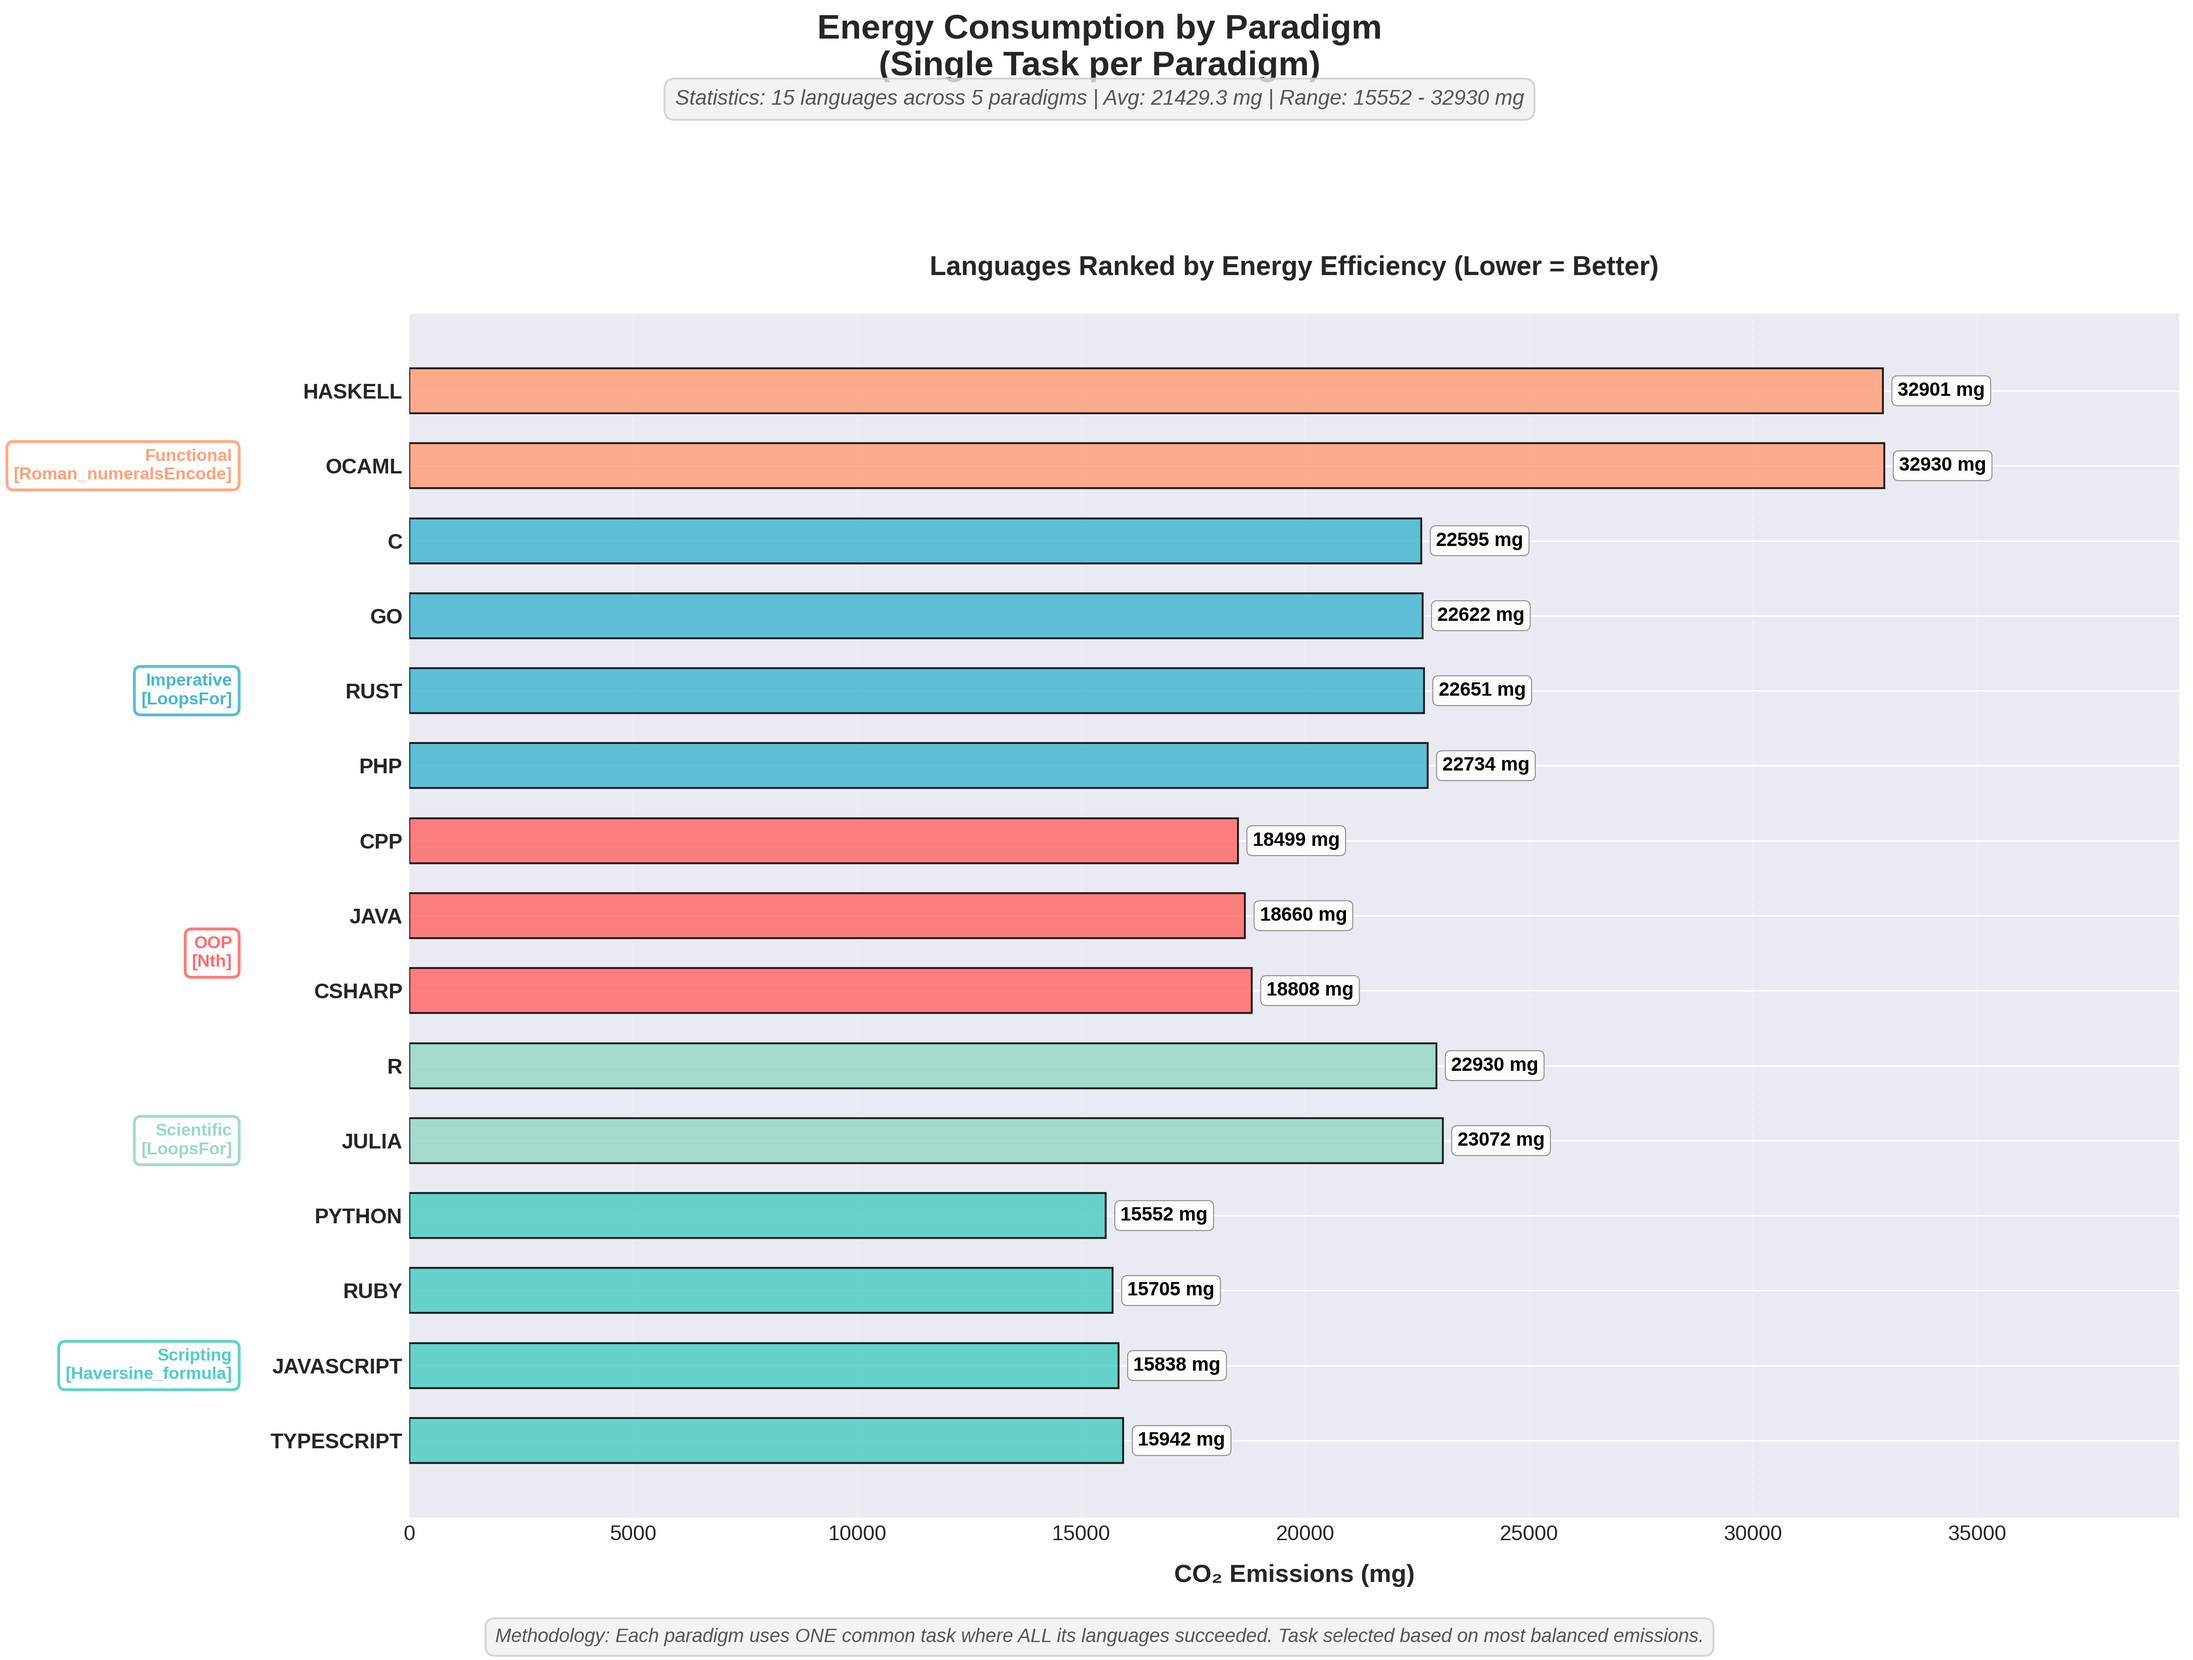
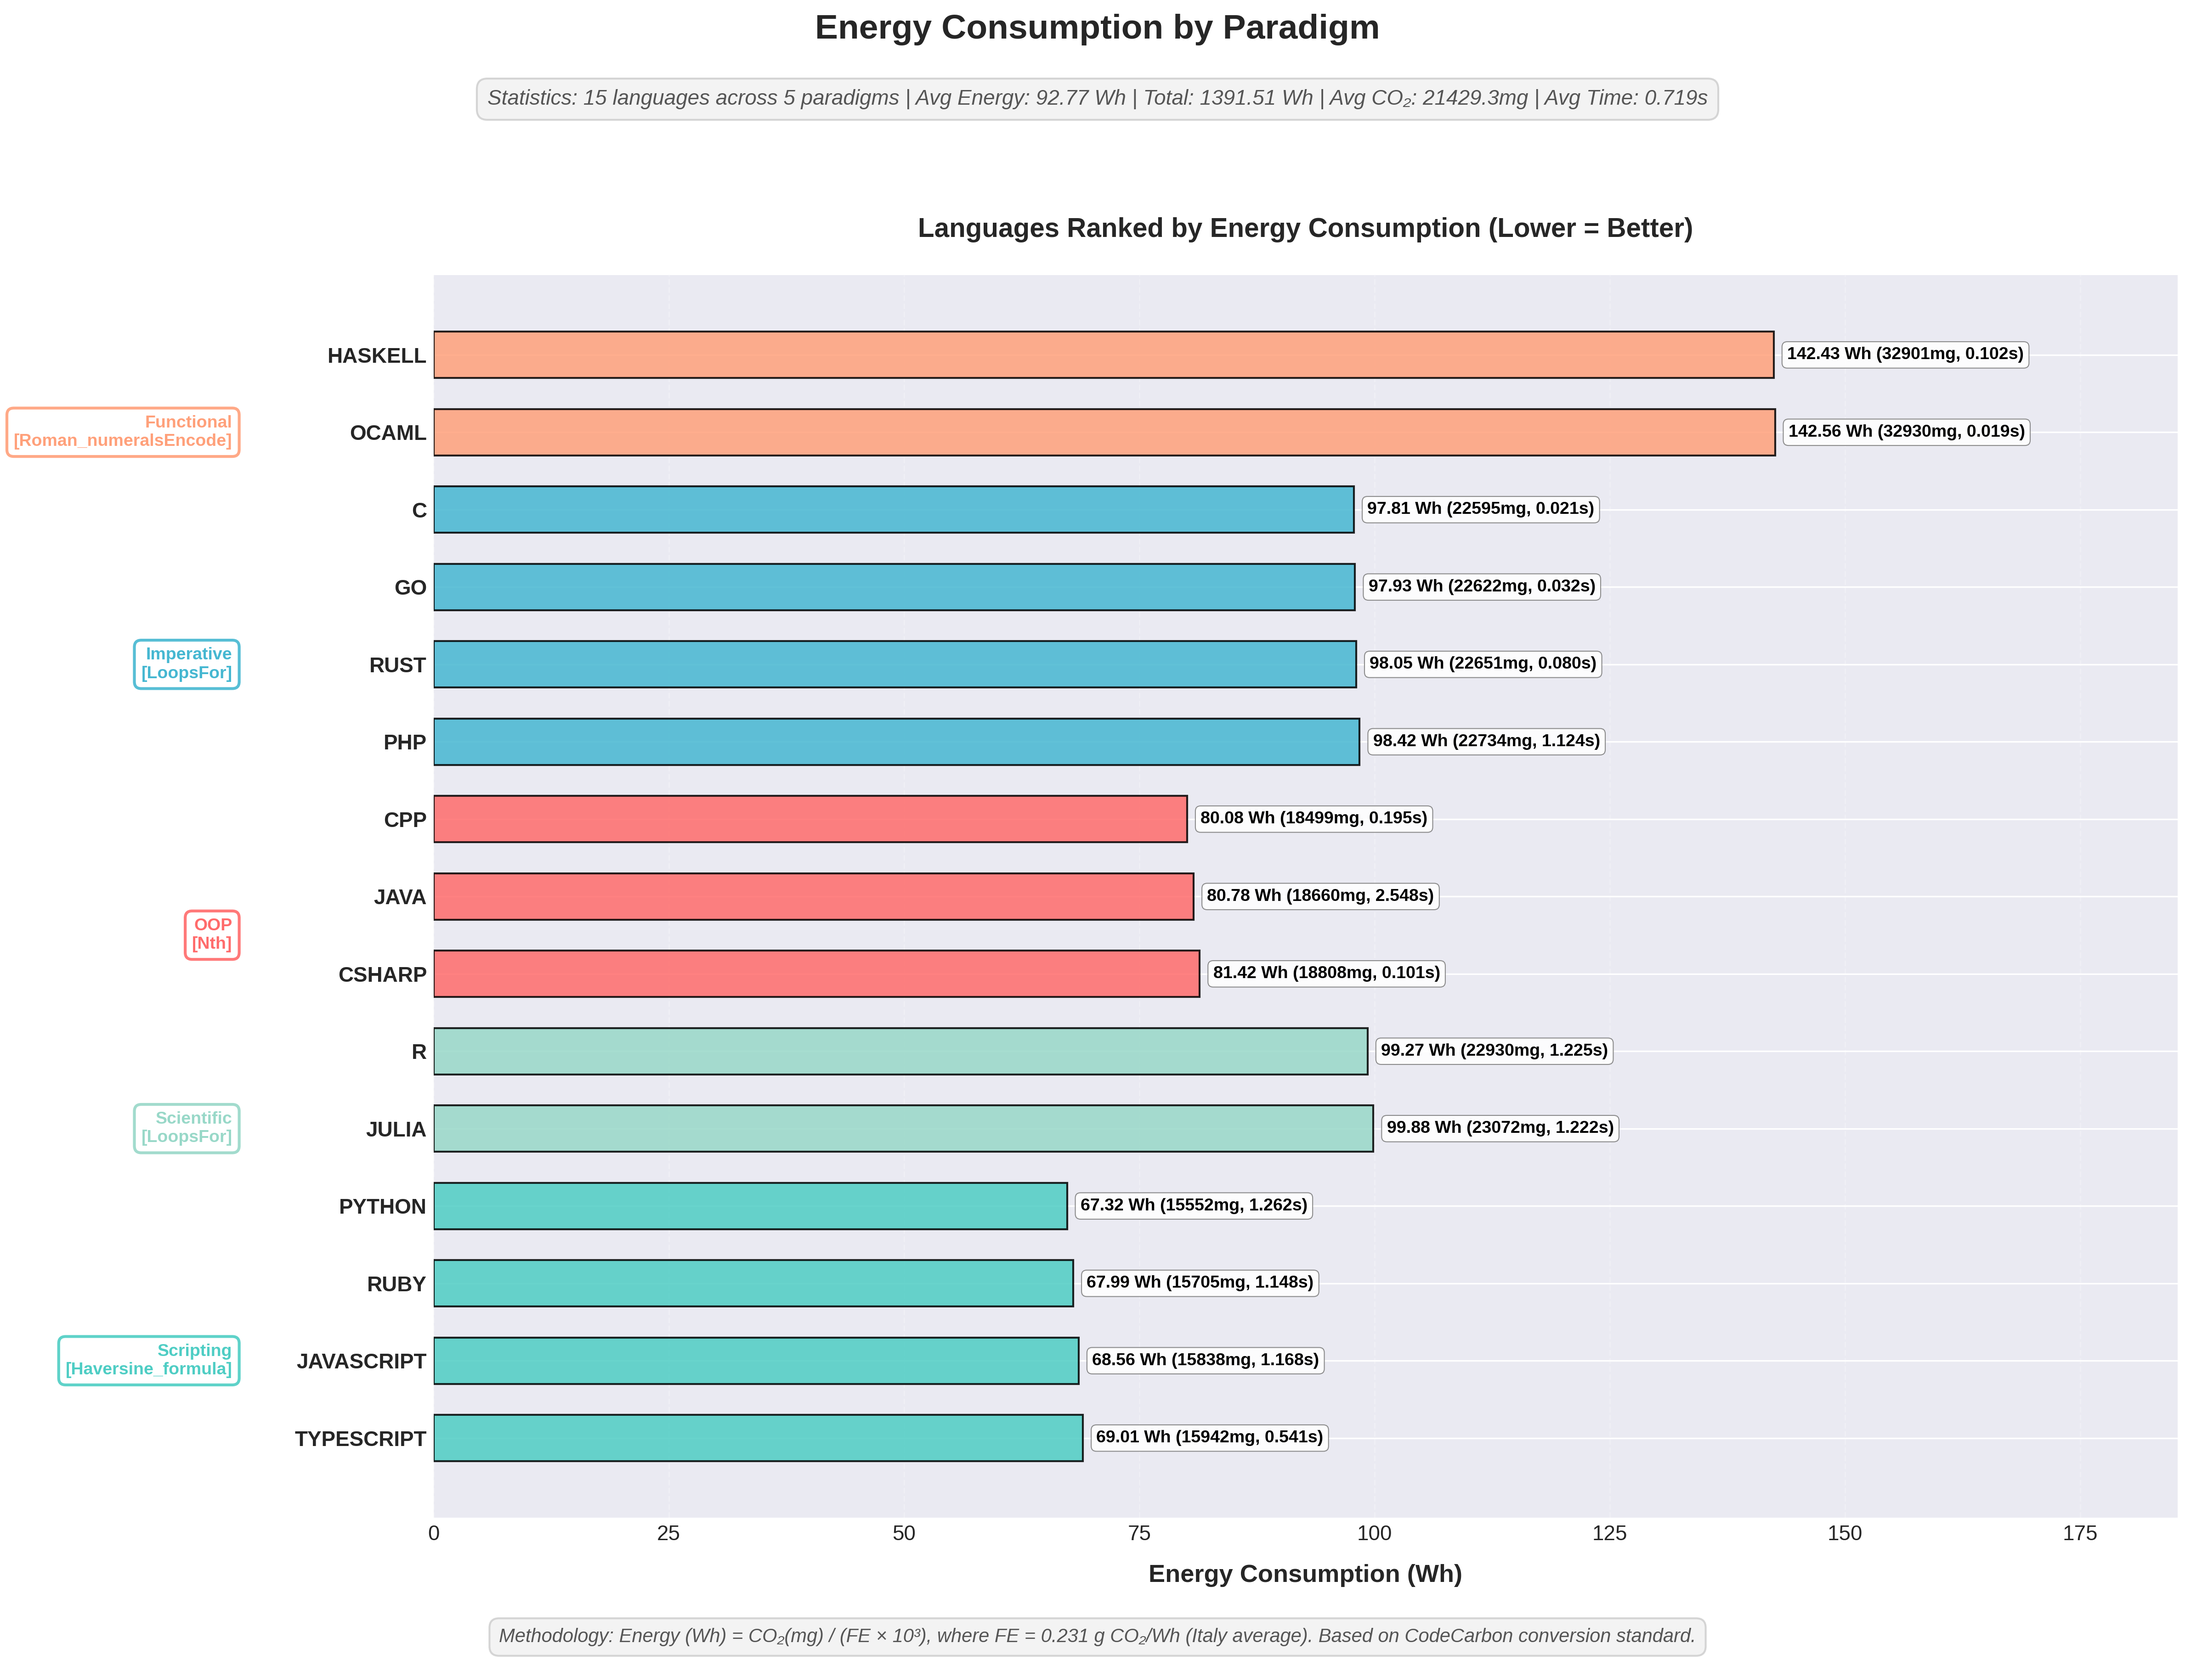
refactor: update energy consumption visualization and calculations

diff --git a/scripts/visualize_results.py b/scripts/visualize_results.py
@@ -1101,7 +1101,7 @@ class CLAPVisualizer:
         plt.show()
     
     def plot_paradigm_energy_consumption(self, save=True):
-        """Energy consumption per paradigm (like efficiency rankings)"""
+        """Energy Consumption (Wh) calculated from CO2 emissions"""
         rankings = self.load_latest_rankings()
         if not rankings:
             print("❌ No rankings data available")
@@ -1124,13 +1124,19 @@ class CLAPVisualizer:
             'Scientific': '#98D8C8'
         }
         
-        # Prepare data
+        # CodeCarbon conversion constants
+        # FE = Emission Factor for Italy (average) in g CO₂ / Wh
+        EMISSION_FACTOR = 0.231  # g CO₂ per Wh (Italy average)
+        
+        # Prepare data - calculate energy consumption in Wh
         all_langs = []
         all_co2 = []
+        all_time = []
+        all_energy_wh = []  # Energy in Wh
         all_colors = []
         paradigm_tasks = {}
         
-        # Track where each paradigm starts for adding task labels
+        # Track where each paradigm starts
         paradigm_positions = {}
         current_position = 0
         
@@ -1139,15 +1145,28 @@ class CLAPVisualizer:
             paradigm_tasks[paradigm] = task_name
             lang_stats = paradigm_data.get('languages', {})
             
-            # Sort by CO2 (ascending - best first)
-            sorted_by_co2 = sorted(lang_stats.items(), key=lambda x: x[1]['emissions_mg'])
+            lang_energy = []
+            for lang, stats in lang_stats.items():
+                co2_mg = stats['emissions_mg']
+                time_s = stats['time_s']
+                
+                # Formula: E(Wh) = CO₂(mg) / (FE(g/Wh) × 10³)
+                # This converts CO₂ emissions back to energy consumed
+                energy_wh = co2_mg / (EMISSION_FACTOR * 1000)
+                
+                lang_energy.append((lang, co2_mg, time_s, energy_wh))
+            
+            # Sort by energy consumption (ascending - best first)
+            lang_energy.sort(key=lambda x: x[3])
             
             # Store starting position for this paradigm
-            paradigm_positions[paradigm] = current_position + len(sorted_by_co2) / 2
+            paradigm_positions[paradigm] = current_position + len(lang_energy) / 2
             
-            for lang, stats in sorted_by_co2:
+            for lang, co2, time, energy_wh in lang_energy:
                 all_langs.append(lang.upper())
-                all_co2.append(stats['emissions_mg'])
+                all_co2.append(co2)
+                all_time.append(time)
+                all_energy_wh.append(energy_wh)
                 all_colors.append(paradigm_colors.get(paradigm, '#CCCCCC'))
                 current_position += 1
         
@@ -1157,21 +1176,21 @@ class CLAPVisualizer:
         fig = plt.figure(figsize=(16, fig_height))
         
         # Main title
-        fig.suptitle('Energy Consumption by Paradigm\n(Single Task per Paradigm)', 
+        fig.suptitle('Energy Consumption by Paradigm', 
                      fontsize=18, fontweight='bold', y=0.995)
         
         # Create main chart
         ax = plt.subplot(1, 1, 1)
         
         # Create horizontal bars with gradient colors
-        bars = ax.barh(range(len(all_langs)), all_co2, color=all_colors, 
+        bars = ax.barh(range(len(all_langs)), all_energy_wh, color=all_colors, 
                       edgecolor='black', linewidth=1.0, height=0.6, alpha=0.85)
         
-        # Customize axes with more padding
+        # Customize axes
         ax.set_yticks(range(len(all_langs)))
         ax.set_yticklabels(all_langs, fontsize=11, fontweight='bold')
-        ax.set_xlabel('CO₂ Emissions (mg)', fontsize=13, fontweight='bold', labelpad=10)
-        ax.set_title('Languages Ranked by Energy Efficiency (Lower = Better)', 
+        ax.set_xlabel('Energy Consumption (Wh)', fontsize=13, fontweight='bold', labelpad=10)
+        ax.set_title('Languages Ranked by Energy Consumption (Lower = Better)', 
                     fontsize=14, fontweight='bold', pad=20)
         ax.invert_yaxis()
         
@@ -1180,14 +1199,18 @@ class CLAPVisualizer:
         ax.set_axisbelow(True)
         
         # Extend x-axis to make room for labels
-        ax.set_xlim(0, max(all_co2) * 1.2)
+        ax.set_xlim(0, max(all_energy_wh) * 1.3)
         
-        # Add value labels - black text with white background
-        for i, co2 in enumerate(all_co2):
-            x_pos = co2 + max(all_co2) * 0.01
-            ax.text(x_pos, i, f'{co2:.0f} mg',
+        # Add value labels with energy, CO2 and time details
+        for i, (energy_wh, co2, time) in enumerate(zip(all_energy_wh, all_co2, all_time)):
+            x_pos = energy_wh + max(all_energy_wh) * 0.01
+            
+            # Show energy (Wh) + CO2 (mg) + time (s)
+            label = f'{energy_wh:.2f} Wh ({co2:.0f}mg, {time:.3f}s)'
+            
+            ax.text(x_pos, i, label,
                    va='center', ha='left',
-                   fontsize=10, fontweight='bold',
+                   fontsize=9, fontweight='bold',
                    color='black',
                    bbox=dict(boxstyle='round,pad=0.3', 
                             facecolor='white', 
@@ -1195,10 +1218,10 @@ class CLAPVisualizer:
                             linewidth=0.5,
                             alpha=0.9))
         
-        # Add paradigm + task labels on the left side
+        # Add paradigm + task labels on the left
         for paradigm, position in paradigm_positions.items():
             task_name = paradigm_tasks.get(paradigm, 'N/A')
-            ax.text(-max(all_co2)*0.12, position, 
+            ax.text(-max(all_energy_wh)*0.15, position, 
                    f'{paradigm}\n[{task_name}]',
                    va='center', ha='right', fontsize=9, fontweight='bold',
                    color=paradigm_colors.get(paradigm, '#000'),
@@ -1207,21 +1230,26 @@ class CLAPVisualizer:
                             linewidth=1.5, alpha=0.9))
         
         # Calculate statistics
+        avg_energy = sum(all_energy_wh) / len(all_energy_wh)
+        min_energy = min(all_energy_wh)
+        max_energy = max(all_energy_wh)
         avg_co2 = sum(all_co2) / len(all_co2)
-        min_co2 = min(all_co2)
-        max_co2_val = max(all_co2)
+        avg_time = sum(all_time) / len(all_time)
+        total_energy = sum(all_energy_wh)
         
         # Add statistics
-        stats_line = f'Statistics: {len(all_langs)} languages across {len(paradigm_positions)} paradigms | Avg: {avg_co2:.1f} mg | Range: {min_co2:.0f} - {max_co2_val:.0f} mg'
+        stats_line = (f'Statistics: {len(all_langs)} languages across {len(paradigm_positions)} paradigms | '
+                     f'Avg Energy: {avg_energy:.2f} Wh | Total: {total_energy:.2f} Wh | '
+                     f'Avg CO₂: {avg_co2:.1f}mg | Avg Time: {avg_time:.3f}s')
         fig.text(0.5, 0.94, stats_line,
                 ha='center', fontsize=11, style='italic', color='#555555',
                 bbox=dict(boxstyle='round,pad=0.5', facecolor='#f0f0f0', 
                          edgecolor='#cccccc', alpha=0.8))
         
-        # Add methodology note
+        # Add methodology note with CodeCarbon formula
         fig.text(0.5, 0.01, 
-                'Methodology: Each paradigm uses ONE common task where ALL its languages succeeded. '
-                'Task selected based on most balanced emissions.',
+                f'Methodology: Energy (Wh) = CO₂(mg) / (FE × 10³), where FE = {EMISSION_FACTOR} g CO₂/Wh (Italy average). '
+                'Based on CodeCarbon conversion standard.',
                 ha='center', fontsize=10, style='italic', color='#555555',
                 bbox=dict(boxstyle='round,pad=0.5', facecolor='#f0f0f1', 
                          edgecolor='#cccccc', alpha=0.8))
@@ -1237,7 +1265,7 @@ class CLAPVisualizer:
     
     def generate_all_plots(self):
         """Generate all available charts"""
-        print("📊 Generating all CLAP charts...\n")
+        print(" Generating all CLAP charts...\n")
         
         print("1 - Language Energy Ranking...")
         self.plot_language_energy_ranking()
